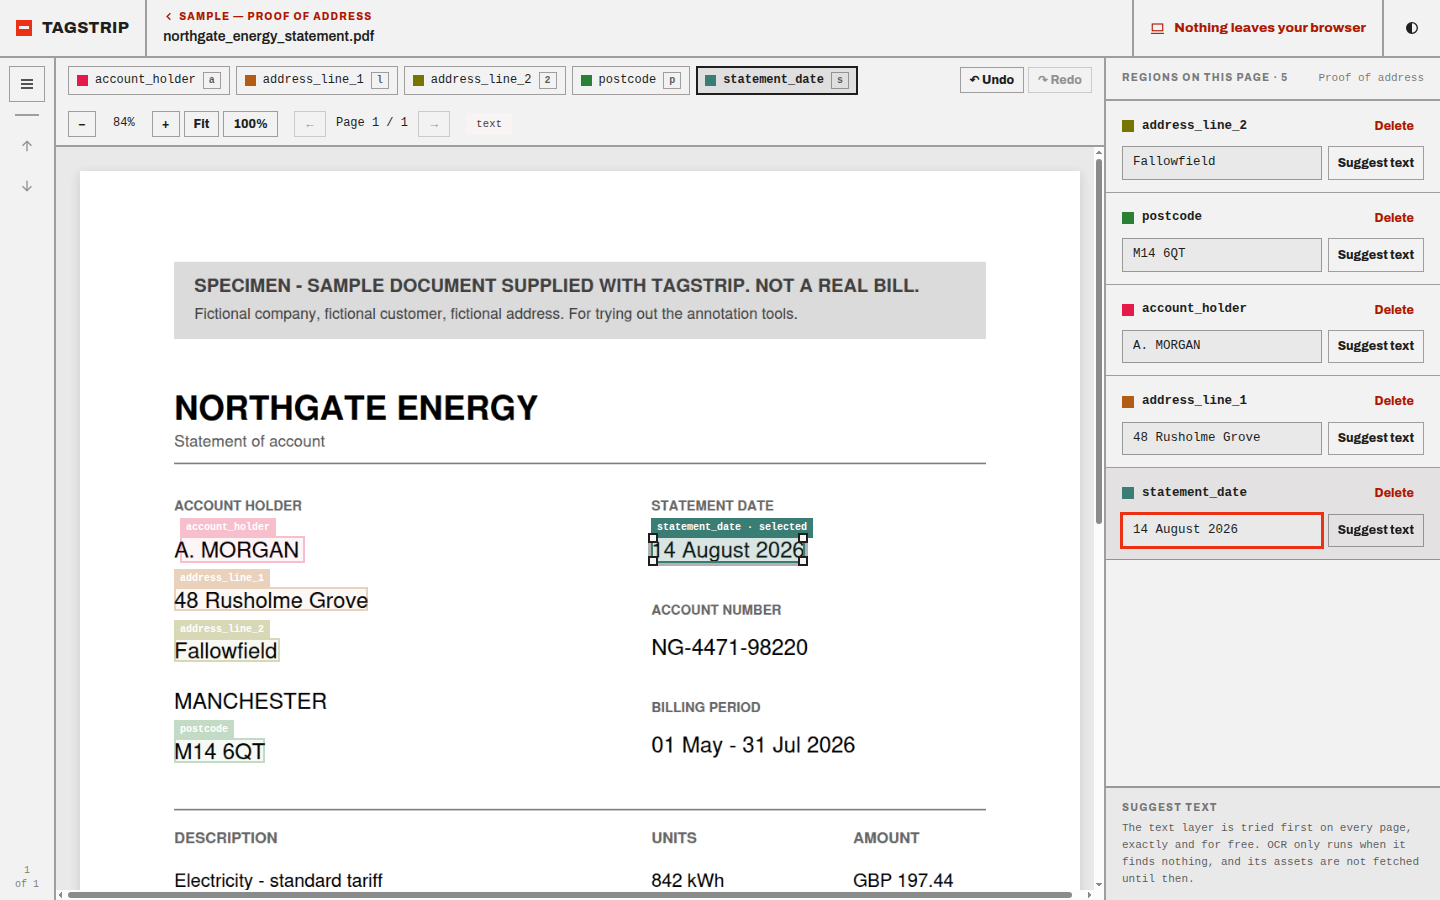
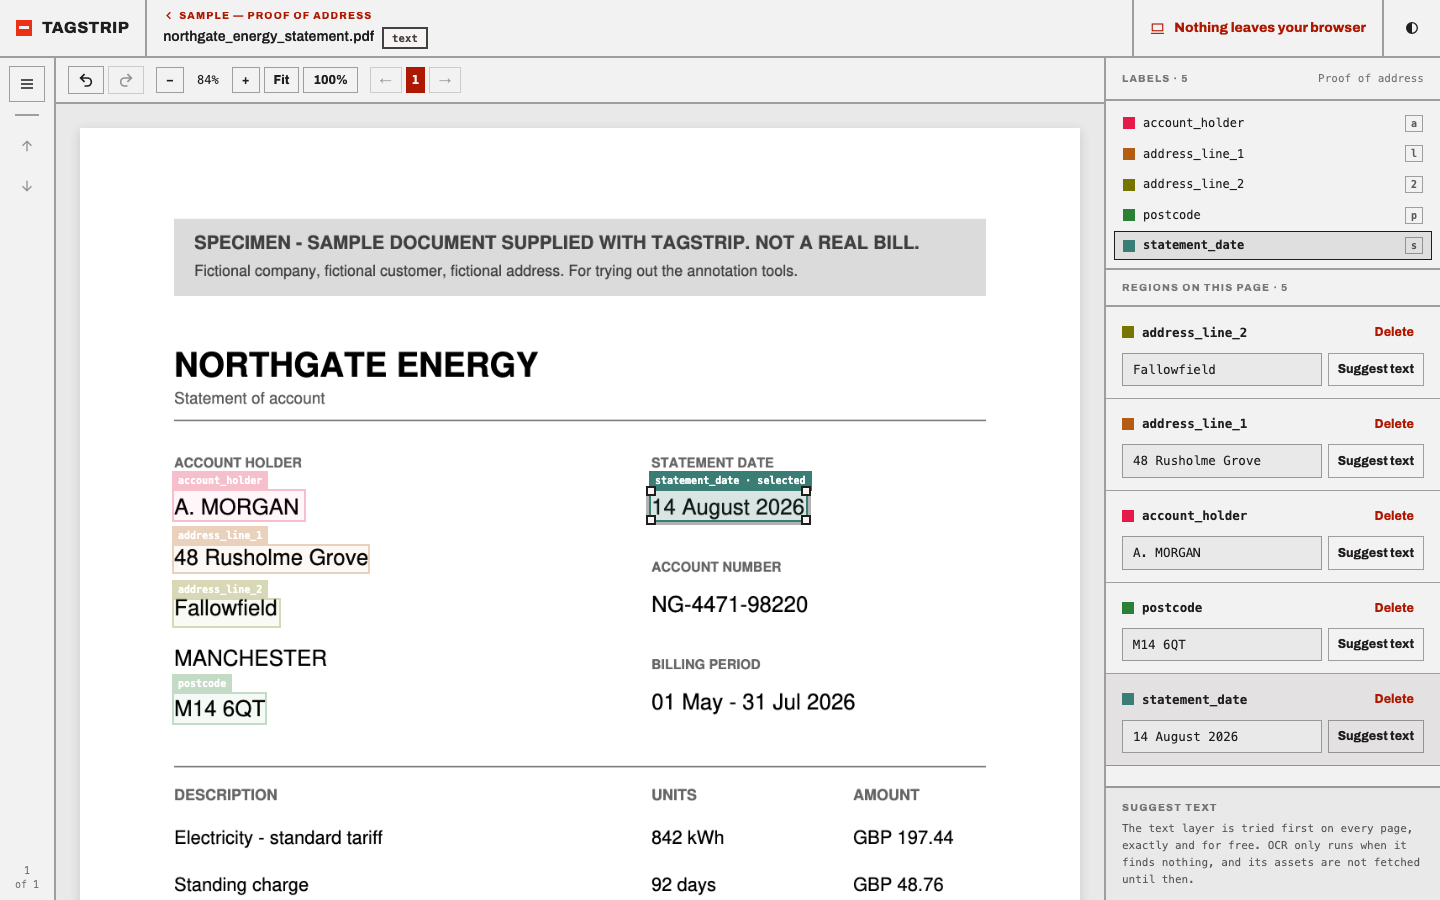
Retake the README screenshot for the current annotate screen
The picture showed labels as chips in the toolbar, a "Page 1 / 1"
readout and worded Undo and Redo buttons, none of which exist now.

Same scene as before, the bundled sample with its five regions and
statement_date selected, at 1440x900 in the light theme: one row of
controls, the page-number strip, the layer tag beside the filename, and
the label list above the regions. Every transcription in it was filled
by Suggest text from the PDF's own text layer.

The alt text described "the label toolbar along the top"; it now says
what is there.

diff --git a/README.md b/README.md
@@ -7,7 +7,7 @@ document-understanding pipelines (KYC field extraction, ID parsing, invoice pars
 Renders PDFs directly via [pdf.js](https://mozilla.github.io/pdf.js/); no server-side
 pre-processing step, and no server at all.
 
-![The TagStrip annotation canvas: the bundled sample document with five labeled regions, the label toolbar along the top, and the region list on the right showing each region's transcription](docs/screenshot.png)
+![The TagStrip annotation canvas: the bundled sample document with five labeled regions, undo, zoom and page controls along the top, and on the right the label list above the region list showing each region's transcription](docs/screenshot.png)
 
 ## Everything stays on your machine
 
